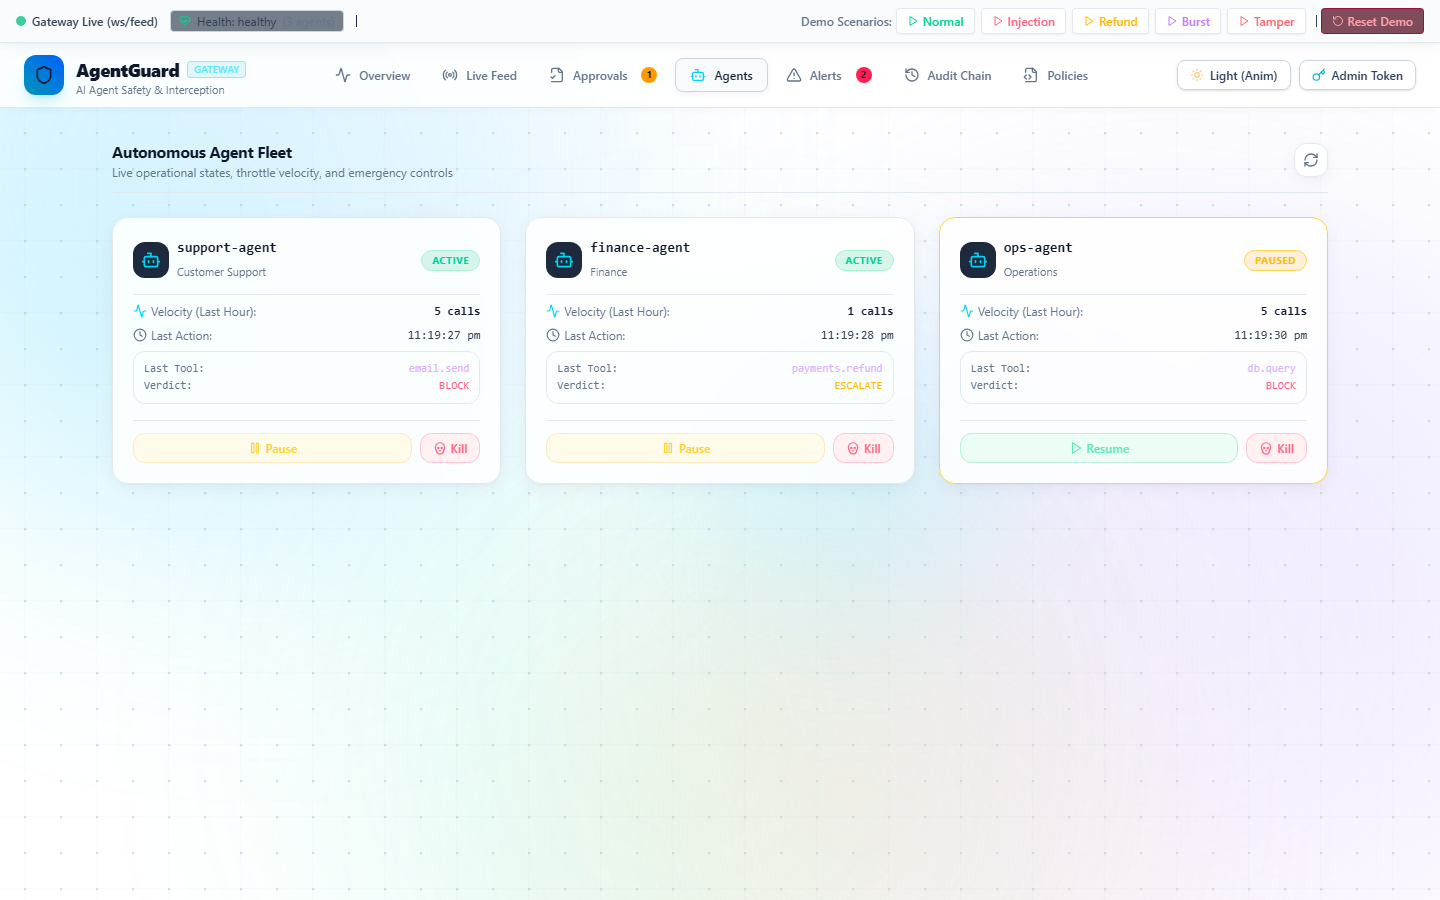
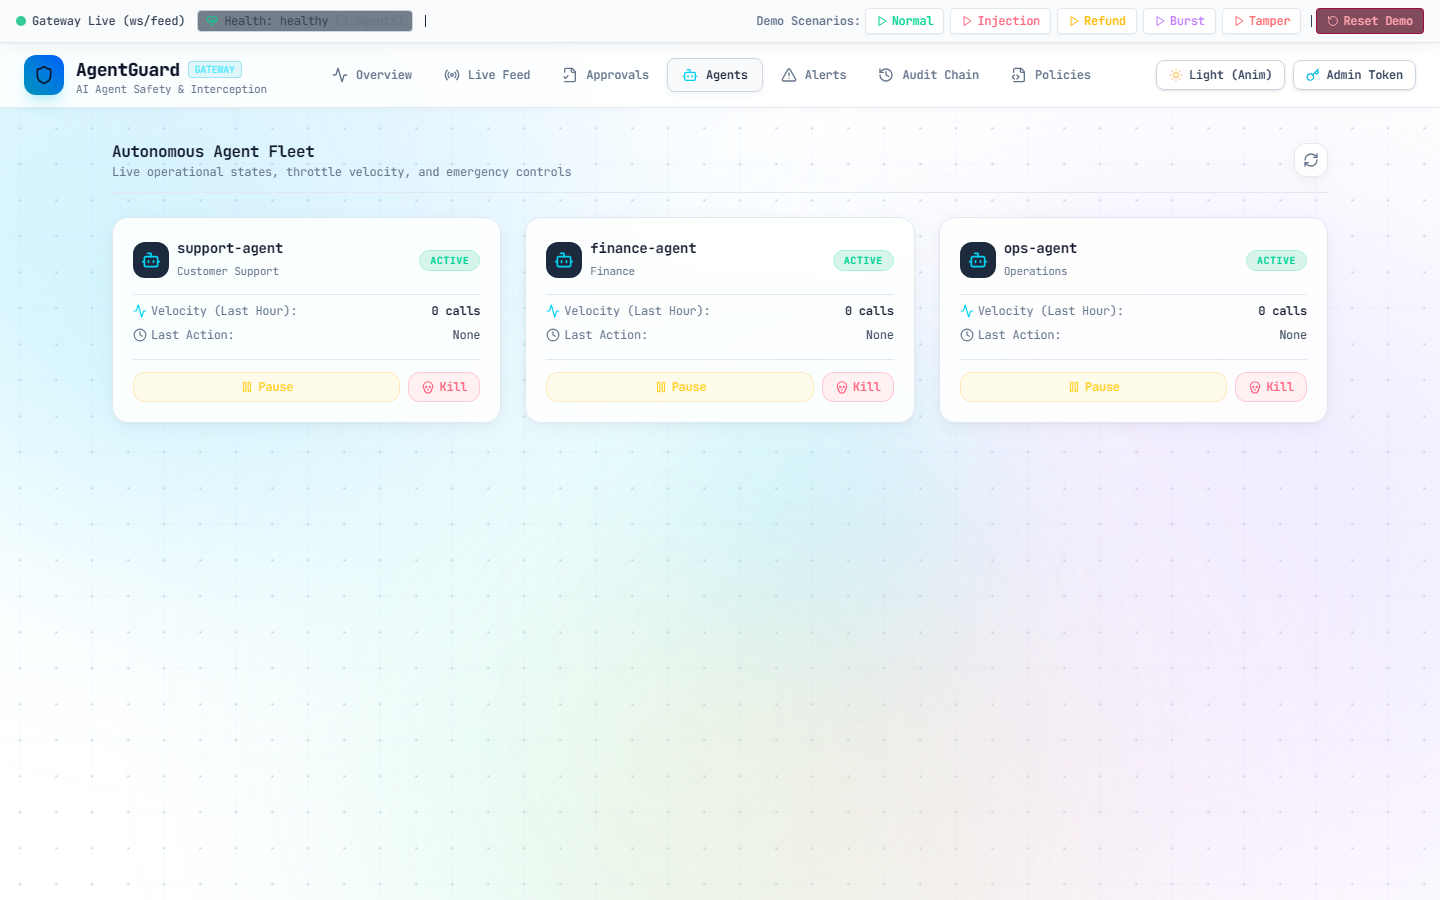
style: apply JetBrains Mono typography globally across entire UI

diff --git a/client/src/index.css b/client/src/index.css
@@ -1,11 +1,23 @@
 @import "tailwindcss";
 
+@theme {
+  --font-sans: 'JetBrains Mono', ui-monospace, SFMono-Regular, Menlo, Monaco, Consolas, monospace;
+  --font-mono: 'JetBrains Mono', ui-monospace, SFMono-Regular, Menlo, Monaco, Consolas, monospace;
+}
+
 @layer base {
-  body {
-    font-family: 'Plus Jakarta Sans', system-ui, -apple-system, sans-serif;
+  *, ::before, ::after {
+    font-family: 'JetBrains Mono', ui-monospace, SFMono-Regular, Menlo, Monaco, Consolas, monospace;
   }
-  code, pre, .font-mono {
-    font-family: 'JetBrains Mono', monospace;
+  html, body {
+    font-family: 'JetBrains Mono', ui-monospace, SFMono-Regular, Menlo, Monaco, Consolas, monospace;
+    letter-spacing: -0.015em;
+  }
+  button, input, optgroup, select, textarea {
+    font-family: 'JetBrains Mono', ui-monospace, SFMono-Regular, Menlo, Monaco, Consolas, monospace;
+  }
+  code, pre, .font-mono, .font-sans {
+    font-family: 'JetBrains Mono', ui-monospace, SFMono-Regular, Menlo, Monaco, Consolas, monospace;
   }
 }
 

diff --git a/client/index.html b/client/index.html
@@ -7,9 +7,9 @@
     <title>AgentGuard — AI Agent Safety and Control Gateway</title>
     <link rel="preconnect" href="https://fonts.googleapis.com">
     <link rel="preconnect" href="https://fonts.gstatic.com" crossorigin>
-    <link href="https://fonts.googleapis.com/css2?family=JetBrains+Mono:wght@400;500;600&family=Plus+Jakarta+Sans:wght@400;500;600;700;800&display=swap" rel="stylesheet">
+    <link href="https://fonts.googleapis.com/css2?family=JetBrains+Mono:ital,wght@0,300..800;1,300..800&display=swap" rel="stylesheet">
   </head>
-  <body class="bg-white text-slate-900 antialiased min-h-screen selection:bg-cyan-500/20 selection:text-cyan-900">
+  <body class="bg-white text-slate-900 antialiased min-h-screen selection:bg-cyan-500/20 selection:text-cyan-900 font-mono">
     <div id="root"></div>
     <script type="module" src="/src/main.jsx"></script>
   </body>

diff --git a/client/src/App.jsx b/client/src/App.jsx
@@ -97,7 +97,7 @@ export function App() {
   }, [toast]);
 
   return (
-    <div className={`min-h-screen flex flex-col font-sans relative transition-colors duration-300 ${
+    <div className={`min-h-screen flex flex-col font-mono relative transition-colors duration-300 ${
       theme === 'light' ? 'theme-light text-slate-800' : 'theme-dark bg-slate-950 text-slate-100'
     }`}>
       {theme === 'light' && <AnimatedBackground />}
